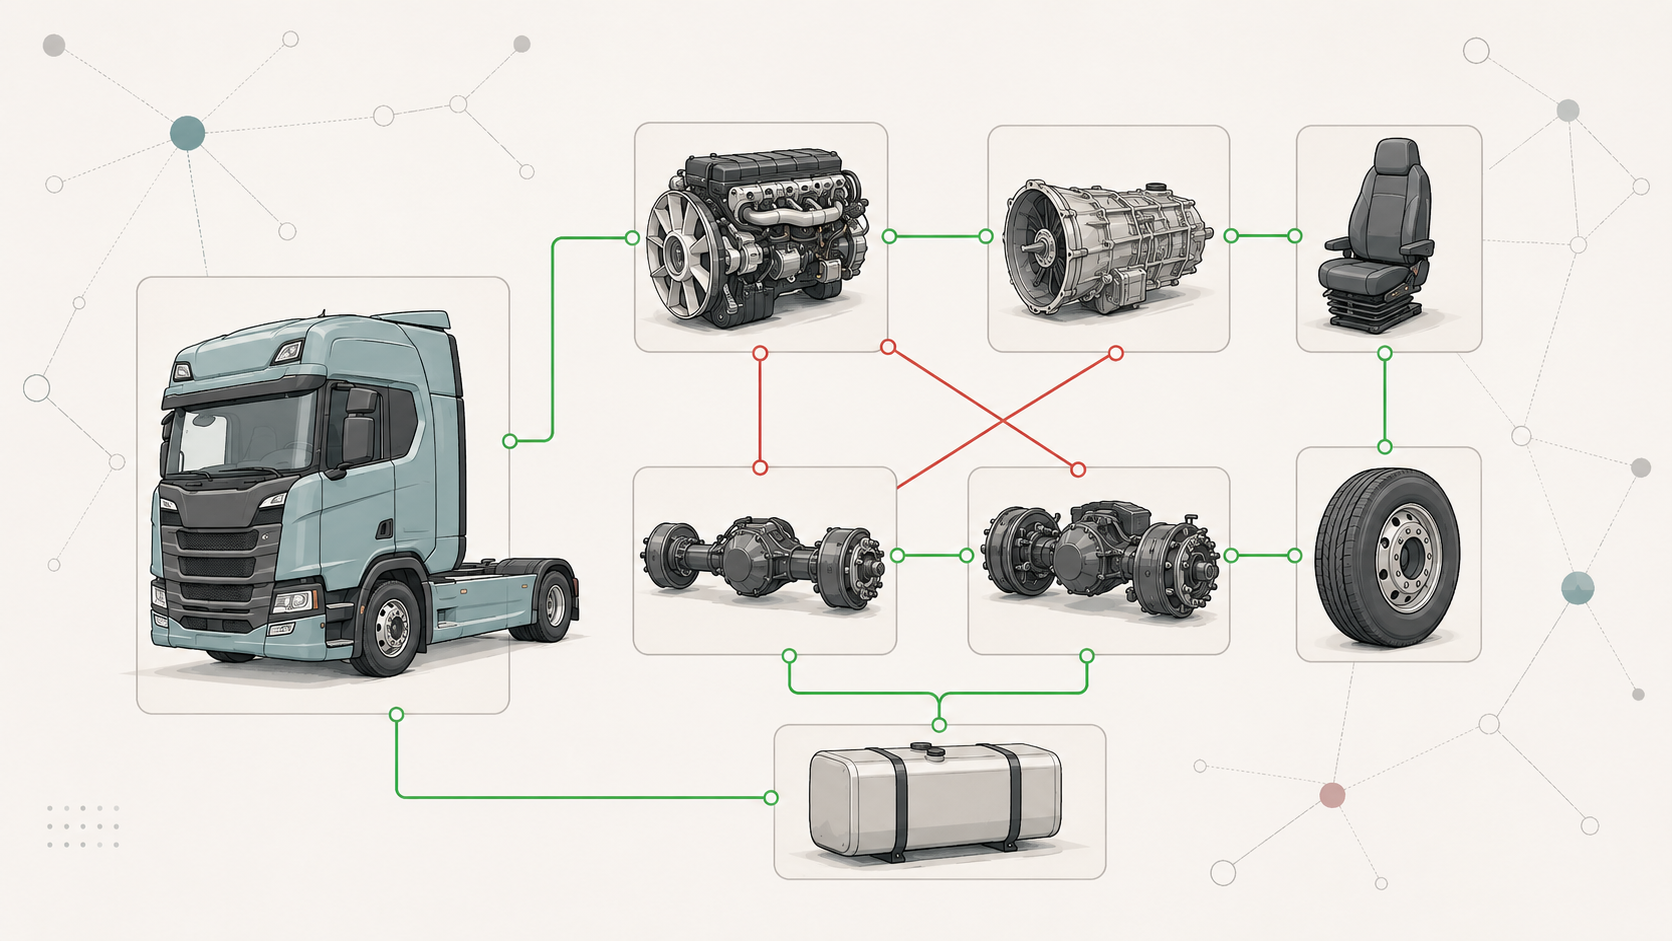
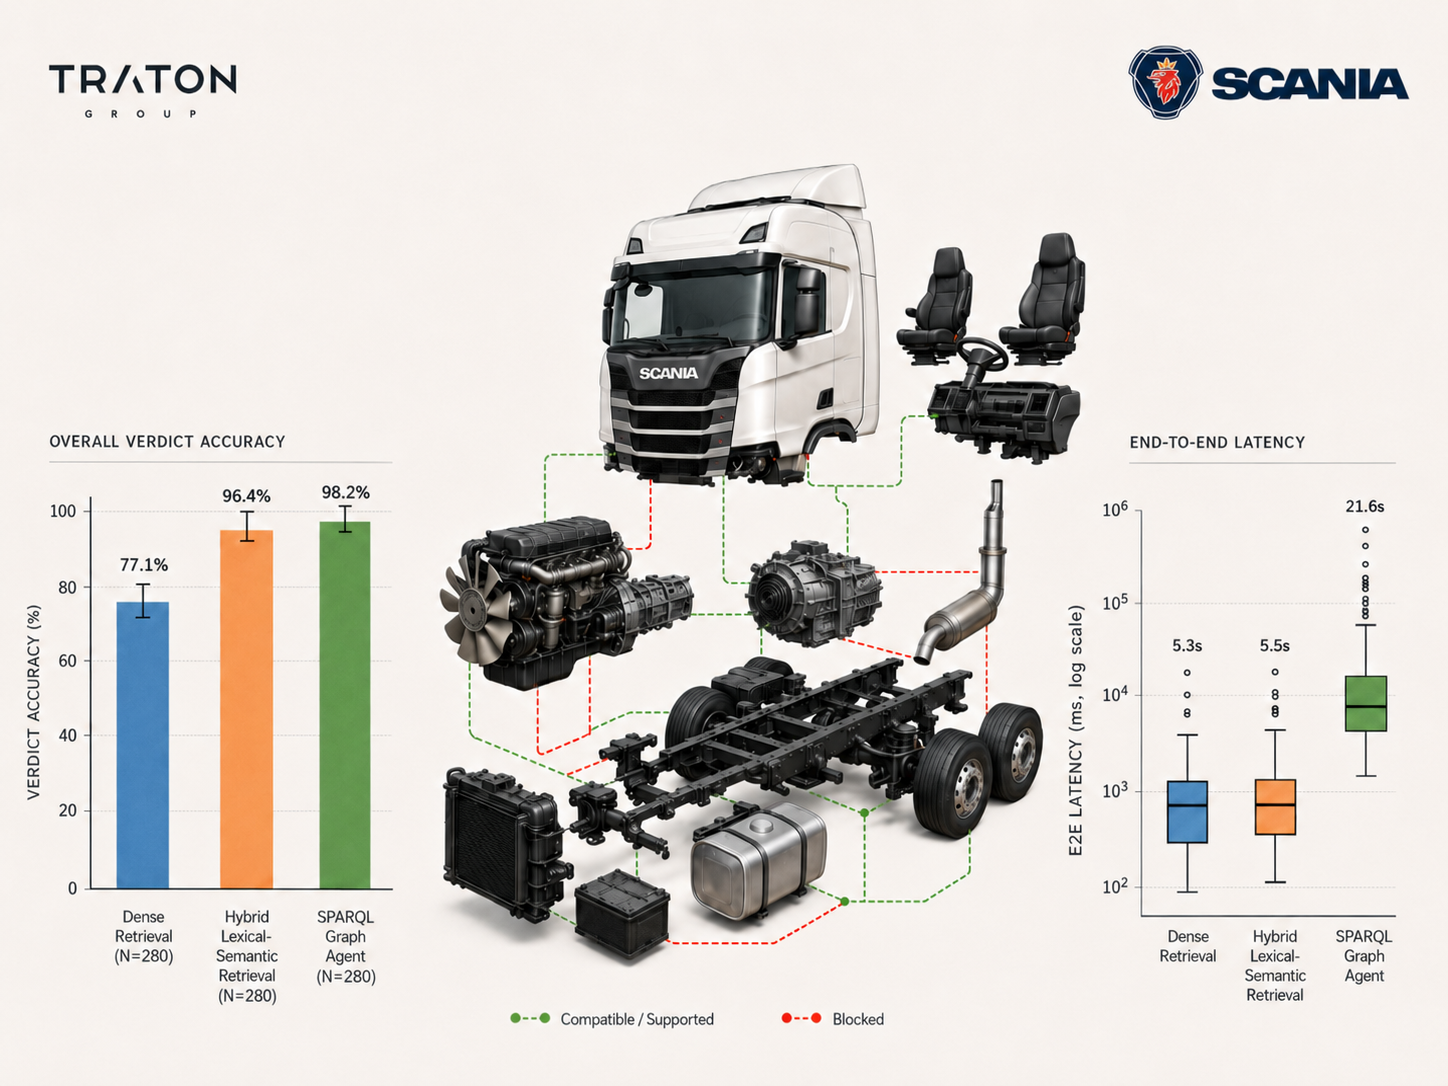
Refine portfolio project content and badges

diff --git a/src/components/ProjectBadges.jsx b/src/components/ProjectBadges.jsx
@@ -1,0 +1,46 @@
+import TechBadge from "./TechBadge";
+
+function MethodBadge({ name }) {
+  return (
+    <span className="method-badge inline-flex items-center rounded-md border border-slate-200/80 bg-white/60 px-2.5 py-1 font-montserrat text-[0.66rem] font-bold uppercase tracking-[0.08em] text-slate-500">
+      {name}
+    </span>
+  );
+}
+
+export default function ProjectBadges({ project, className = "" }) {
+  const stack = project.technologies || [];
+  const methods = project.methods || [];
+
+  if (stack.length === 0 && methods.length === 0) return null;
+
+  return (
+    <div className={`space-y-3 ${className}`}>
+      {stack.length > 0 && (
+        <div>
+          <p className="mb-1.5 font-montserrat text-[0.62rem] font-extrabold uppercase tracking-[0.18em] text-slate-400">
+            Stack
+          </p>
+          <div className="flex flex-wrap gap-1.5">
+            {stack.map((tech) => (
+              <TechBadge key={tech} name={tech} />
+            ))}
+          </div>
+        </div>
+      )}
+
+      {methods.length > 0 && (
+        <div>
+          <p className="mb-1.5 font-montserrat text-[0.62rem] font-extrabold uppercase tracking-[0.18em] text-slate-400">
+            Focus
+          </p>
+          <div className="flex flex-wrap gap-1.5">
+            {methods.map((method) => (
+              <MethodBadge key={method} name={method} />
+            ))}
+          </div>
+        </div>
+      )}
+    </div>
+  );
+}

diff --git a/src/data/projects.js b/src/data/projects.js
@@ -37,14 +37,15 @@ import vimFull from "../assets/project-optimized/vim-motions-guide-full.webp";
 export const projects = [
   {
     id: "master-thesis-kgqa",
-    title: "Retrieval and Graph-Access Strategies for Industrial Knowledge Graph Question Answering",
+    title: "Industrial Knowledge Graph QA",
     image: masterThesisKgqaCard,
     imageFull: masterThesisKgqaFull,
     description:
-      "Master's thesis evaluating natural-language access strategies for Traton's MAZE industrial knowledge graph, comparing retrieval-based answers with direct graph queries for compatibility question answering.",
+      "Master's thesis, \"Retrieval and Graph-Access Strategies for Industrial Knowledge Graph Question Answering,\" evaluating natural-language access to Traton's MAZE graph through retrieval-based answers and direct graph queries.",
     featuredDescription:
-      "This master's thesis studies natural-language access to Traton's MAZE industrial knowledge graph, comparing fast retrieval-based answers with direct graph queries for compatibility questions where traceability matters.",
-    technologies: ["Research", "Python", "RAG", "SPARQL", "LLMs"],
+      "This master's thesis, formally titled \"Retrieval and Graph-Access Strategies for Industrial Knowledge Graph Question Answering,\" studies natural-language access to Traton's MAZE industrial knowledge graph where compatibility answers need to be both accurate and traceable.",
+    technologies: ["Python", "SPARQL", "AWS"],
+    methods: ["Knowledge graphs", "RAG", "LLM evaluation", "Compatibility QA"],
     category: "Research",
     context: "Academic",
     links: {},
@@ -63,6 +64,7 @@ export const projects = [
       "A decommissioned React and TypeScript tracker that organized thesis work into phase-based Kanban columns and linked directly to key deliverables.",
     statusNote: "This work has been decommissioned and is no longer publicly available.",
     technologies: ["React", "Tailwind CSS", "TypeScript"],
+    methods: ["Research planning", "Kanban workflow"],
     category: "Web",
     context: "Academic",
     links: {},
@@ -79,7 +81,8 @@ export const projects = [
       "A Blazor and ASP.NET PWA for browsing, rating, and saving snus products, with Supabase-backed auth/data, search filters, social reviews, favorites, and wishlists.",
     featuredDescription:
       "SnusKoll is a mobile-first product catalog and review app for snus. It combines a Blazor WebAssembly frontend, ASP.NET API, Supabase-backed data, authenticated personal ratings, wishlists, favorites, and a small social review feed.",
-    technologies: ["ASP.NET", "Blazor", "C#", "SQL", "Tailwind CSS"],
+    technologies: ["ASP.NET", "Blazor", "C#", "Supabase", "SQL", "Tailwind CSS", "Docker"],
+    methods: ["Product discovery", "Personal ratings", "Social reviews"],
     category: "Web",
     context: "Personal",
     links: {
@@ -96,7 +99,8 @@ export const projects = [
     imageFull: aiDiaryFull,
     description:
       "A speech-first work diary for Bravida technicians, using Azure Speech transcription and LLM summaries to turn short spoken check-ins into structured daily notes.",
-    technologies: ["React", "Material UI", "TypeScript", "LLMs"],
+    technologies: ["React", "Material UI", "TypeScript", "Azure", "Azure Speech"],
+    methods: ["Field reporting", "Speech-to-text", "LLM summaries"],
     category: "Web",
     context: "Professional",
     links: {},
@@ -110,7 +114,8 @@ export const projects = [
     imageFull: logportalFull,
     description:
       "A secure Bravida support portal for Azure log lookup, order tracing, and remote automation toggles behind a controlled internal web UI.",
-    technologies: ["C#", "SQL", "ASP.NET", "JavaScript", "Bootstrap"],
+    technologies: ["C#", "ASP.NET", "Azure", "SQL", "KQL", "JavaScript", "Bootstrap"],
+    methods: ["Azure log lookup", "Order tracing", "Support automation"],
     category: "Web",
     context: "Professional",
     links: {},
@@ -124,7 +129,8 @@ export const projects = [
     imageFull: bachelorFull,
     description:
       "Bachelor's thesis testing whether summarized chatbot history can cut LLM cost while preserving answer quality; experiments reduced cost up to 92% without significant performance loss.",
-    technologies: ["Research", "LLMs", "Python"],
+    technologies: ["Python"],
+    methods: ["LLM evaluation", "Context summarization", "Cost analysis"],
     category: "Research",
     context: "Academic",
     links: {
@@ -141,6 +147,7 @@ export const projects = [
     description:
       "KTH team project for I-CONIC: a C++/wxWidgets measurement tool for images with hidden depth maps, turning video-derived 3D model data into distance, height, area, and volume checks.",
     technologies: ["C++", "wxWidgets"],
+    methods: ["3D measurement", "Depth maps"],
     category: "Desktop",
     context: "Academic",
     links: {
@@ -158,6 +165,7 @@ export const projects = [
     description:
       "Desktop-first Vim trainer with an interactive keyboard, command stream, mini editor, operators, text objects, and normal/shift/control command hints.",
     technologies: ["HTML", "CSS", "JavaScript"],
+    methods: ["Keyboard training", "Developer education"],
     category: "Web",
     context: "Personal",
     links: {
@@ -175,6 +183,7 @@ export const projects = [
     description:
       "React and TypeScript PWA for habit tracking with Firebase auth/storage, custom habit icons and colors, activity heatmaps, and scheduled reminder notifications.",
     technologies: ["React", "Material UI", "Firebase", "TypeScript"],
+    methods: ["Personal improvement", "Habit tracking"],
     category: "Web",
     context: "Personal",
     links: {
@@ -191,6 +200,7 @@ export const projects = [
     description:
       "React and Joy UI pathfinding playground for drawing obstacles and comparing Dijkstra and A* with animated visited nodes and shortest paths.",
     technologies: ["React", "Joy UI", "JavaScript"],
+    methods: ["Algorithm visualization", "Graph search"],
     category: "Web",
     context: "Personal",
     links: {
@@ -207,6 +217,7 @@ export const projects = [
     description:
       "KTH group fitness dashboard for workout logging, goals, exercise search APIs, Firebase auth/database, Redux state, and Recharts progress visualizations.",
     technologies: ["React", "Firebase", "Material UI", "TypeScript"],
+    methods: ["Personal improvement", "Progress visualization"],
     category: "Web",
     context: "Academic",
     links: {
@@ -223,6 +234,7 @@ export const projects = [
     description:
       "Local-first course deadline tracker with a FullCalendar month view, draggable due dates, course management, archive flow, and PWA support.",
     technologies: ["React", "Joy UI", "JavaScript"],
+    methods: ["Deadline management", "Local-first data"],
     category: "Web",
     context: "Personal",
     links: {
@@ -239,6 +251,7 @@ export const projects = [
     description:
       "Framework-free final-year project comparing A* and Dijkstra on a hand-built grid, including wall drawing, diagonal movement rules, and path animation.",
     technologies: ["JavaScript", "HTML", "CSS"],
+    methods: ["Algorithm visualization", "A* and Dijkstra"],
     category: "Web",
     context: "Academic",
     links: {
@@ -255,6 +268,7 @@ export const projects = [
     description:
       "This Vite and React portfolio, with Tailwind styling, optimized WebP project images, filterable project data, and GitHub Pages deployment scripts.",
     technologies: ["React", "Tailwind CSS", "JavaScript"],
+    methods: ["Responsive UI", "Image optimization"],
     category: "Web",
     context: "Personal",
     links: {
@@ -270,6 +284,7 @@ export const projects = [
     description:
       "KTH course bot that generated Python GIF recaps of notable chess games and published them to Twitter/X.",
     technologies: ["Python", "Twitter API"],
+    methods: ["Content automation", "GIF generation"],
     category: "Other",
     context: "Academic",
     links: {
@@ -287,6 +302,7 @@ export const projects = [
     description:
       "Unity and C# rhythm game prototype that used microphone input to recognize live instrument notes and turn music-theory practice into a Guitar Hero-style exercise.",
     technologies: ["Unity", "C#"],
+    methods: ["Music education", "Audio input"],
     category: "Other",
     context: "Academic",
     links: {},

diff --git a/src/components/TechBadge.jsx b/src/components/TechBadge.jsx
@@ -11,9 +11,13 @@ import {
   FaSearch,
   FaDatabase,
   FaBrain,
+  FaDocker,
+  FaMicrophone,
 } from "react-icons/fa";
 
 import aspnetImg from "../assets/aspnet.png";
+import awsImg from "../assets/aws.svg";
+import azureImg from "../assets/azure.svg";
 import blazorImg from "../assets/blazor.png";
 import cppImg from "../assets/c++.png";
 import chatgptImg from "../assets/ChatGPT.png";
@@ -39,8 +43,20 @@ const techConfig = {
   RAG: { icon: FaSearch, color: "#0f766e" },
   SPARQL: { icon: FaDatabase, color: "#7c3aed" },
   LLMs: { icon: FaBrain, color: "#db2777" },
+  Supabase: { icon: FaDatabase, color: "#16a34a" },
+  Docker: { icon: FaDocker, color: "#2563eb" },
+  "Azure Speech": { icon: FaMicrophone, color: "#0f8aa6" },
+  AWS: { image: awsImg, color: "#ff9900" },
+  Azure: { image: azureImg, color: "#0078d4" },
   "ASP.NET": { image: aspnetImg, color: "#6d28d9" },
-  Blazor: { image: blazorImg, color: "#6d28d9" },
+  Blazor: {
+    image: blazorImg,
+    color: "#6d28d9",
+    imageStyle: {
+      filter:
+        "brightness(0) saturate(100%) invert(22%) sepia(89%) saturate(2863%) hue-rotate(259deg) brightness(88%) contrast(93%)",
+    },
+  },
   "C++": { image: cppImg, color: "#0369a1" },
   ChatGPT: { image: chatgptImg, color: "#16a34a" },
   "C#": { image: csharpImg, color: "#16a34a" },
@@ -68,7 +84,12 @@ export default function TechBadge({ name }) {
       }}
     >
       {config?.image && (
-        <img src={config.image} alt="" className="w-3.5 h-3.5 object-contain" />
+        <img
+          src={config.image}
+          alt=""
+          className="w-3.5 h-3.5 object-contain"
+          style={config.imageStyle}
+        />
       )}
       {config?.icon && <config.icon className="text-sm" />}
       {name}

diff --git a/src/components/Hero.jsx b/src/components/Hero.jsx
@@ -40,9 +40,10 @@ export default function Hero() {
             Linus Dinesj&ouml;
           </h1>
           <p className="section-copy mt-6 max-w-2xl text-lg sm:text-xl">
-            Final-year computer science student near Stockholm, building
-            web systems, internal tools, and small products that stay
-            maintainable after the first release.
+            Final-year KTH computer science student near Stockholm. I build
+            full-stack products, research tools, and internal systems with a
+            bias for clear architecture, measurable outcomes, and software
+            that survives real use.
           </p>
 
           <div className="mt-8 flex flex-wrap gap-3">
@@ -65,8 +66,8 @@ export default function Hero() {
 
           <dl className="mt-10 grid max-w-2xl grid-cols-1 gap-3 xs:grid-cols-3">
             {[
-              ["Focus", "Web systems"],
-              ["Current", "Master thesis"],
+              ["Focus", "Full-stack systems"],
+              ["Current", "KG QA thesis"],
               ["Location", "Strängnäs, Sweden"],
             ].map(([label, value]) => (
               <div key={label} className="hero-stat border-l-2 pl-3">
@@ -92,8 +93,8 @@ export default function Hero() {
                 Portfolio brief
               </p>
               <p className="mt-2 text-sm text-slate-600">
-                KTH coursework, research, side work, and production
-                software.
+                Research, internal tools, public products, and
+                production-minded web systems.
               </p>
             </div>
             <div className="flex items-center border-l border-slate-200/60 px-5 font-iceland text-4xl text-[var(--coral)]">
@@ -101,10 +102,10 @@ export default function Hero() {
             </div>
           </div>
 
-          <div className="grid gap-0 sm:grid-cols-[0.9fr_1.1fr]">
+          <div className="grid items-stretch gap-0 sm:grid-cols-[0.9fr_1.1fr]">
             <div
               ref={portraitFrameRef}
-              className="aspect-[4/5] overflow-hidden bg-slate-200"
+              className="aspect-[4/5] overflow-hidden bg-slate-200 sm:aspect-auto sm:h-full"
               role="img"
               aria-label="Portrait of Linus Dinesjö"
               onPointerMove={handlePortraitPointerMove}
@@ -122,7 +123,8 @@ export default function Hero() {
                   Current focus
                 </p>
                 <p className="mt-3 text-2xl font-bold leading-tight text-slate-950">
-                  Building focused tools for research, support, and daily work.
+                  Building research tools and operational systems people can
+                  trust and use.
                 </p>
               </div>
               <div className="mt-8 flex gap-2">

diff --git a/src/components/ProjectsGrid.jsx b/src/components/ProjectsGrid.jsx
@@ -1,8 +1,8 @@
 import { useState } from "react";
 import { projects, projectContexts } from "../data/projects";
+import ProjectBadges from "./ProjectBadges";
 import ProjectImageFrame from "./ProjectImageFrame";
 import SectionIntro from "./SectionIntro";
-import TechBadge from "./TechBadge";
 import { FaArchive, FaExternalLinkAlt, FaGithub, FaInfoCircle, FaLock } from "react-icons/fa";
 
 export default function ProjectsGrid() {
@@ -131,12 +131,7 @@ export default function ProjectsGrid() {
                     </p>
                   )}
 
-                  {/* Tech badges */}
-                  <div className="mb-5 flex flex-wrap gap-1.5">
-                    {project.technologies.map((tech) => (
-                      <TechBadge key={tech} name={tech} />
-                    ))}
-                  </div>
+                  <ProjectBadges project={project} className="mb-5" />
 
                   {/* Links */}
                   <div className="mt-auto flex flex-wrap gap-2">

diff --git a/src/components/FeaturedProjects.jsx b/src/components/FeaturedProjects.jsx
@@ -1,7 +1,7 @@
 import { featuredProjects } from "../data/projects";
+import ProjectBadges from "./ProjectBadges";
 import ProjectImageFrame from "./ProjectImageFrame";
 import SectionIntro from "./SectionIntro";
-import TechBadge from "./TechBadge";
 import { FaExternalLinkAlt, FaGithub } from "react-icons/fa";
 
 const caseStudyNotes = {
@@ -105,11 +105,7 @@ export default function FeaturedProjects() {
                       ))}
                     </ul>
 
-                    <div className="mt-6 flex flex-wrap gap-2">
-                      {project.technologies.map((tech) => (
-                        <TechBadge key={tech} name={tech} />
-                      ))}
-                    </div>
+                    <ProjectBadges project={project} className="mt-6" />
                   </div>
 
                   <div className="mt-8 flex flex-wrap gap-3">

diff --git a/src/components/Navbar.jsx b/src/components/Navbar.jsx
@@ -124,7 +124,7 @@ export default function Navbar() {
           className={`nav-item rounded-md px-3 py-1.5 text-xs sm:px-4 sm:text-sm font-montserrat font-bold transition-colors duration-200 whitespace-nowrap ${
             active === item.id
               ? "text-white"
-              : "text-slate-500 hover:bg-white/70 hover:text-slate-950"
+              : "text-slate-500 hover:text-slate-950"
           }`}
         >
           {item.label}

diff --git a/src/index.css b/src/index.css
@@ -86,7 +86,6 @@
   --coral: #ef4d5b;
   --amber: #b7791f;
   --ease-out: cubic-bezier(0.16, 1, 0.3, 1);
-  --ease-snap: cubic-bezier(0.2, 0.82, 0.16, 1);
   --motion-snap: 120ms;
   --motion-fast: 180ms;
   --motion-medium: 320ms;